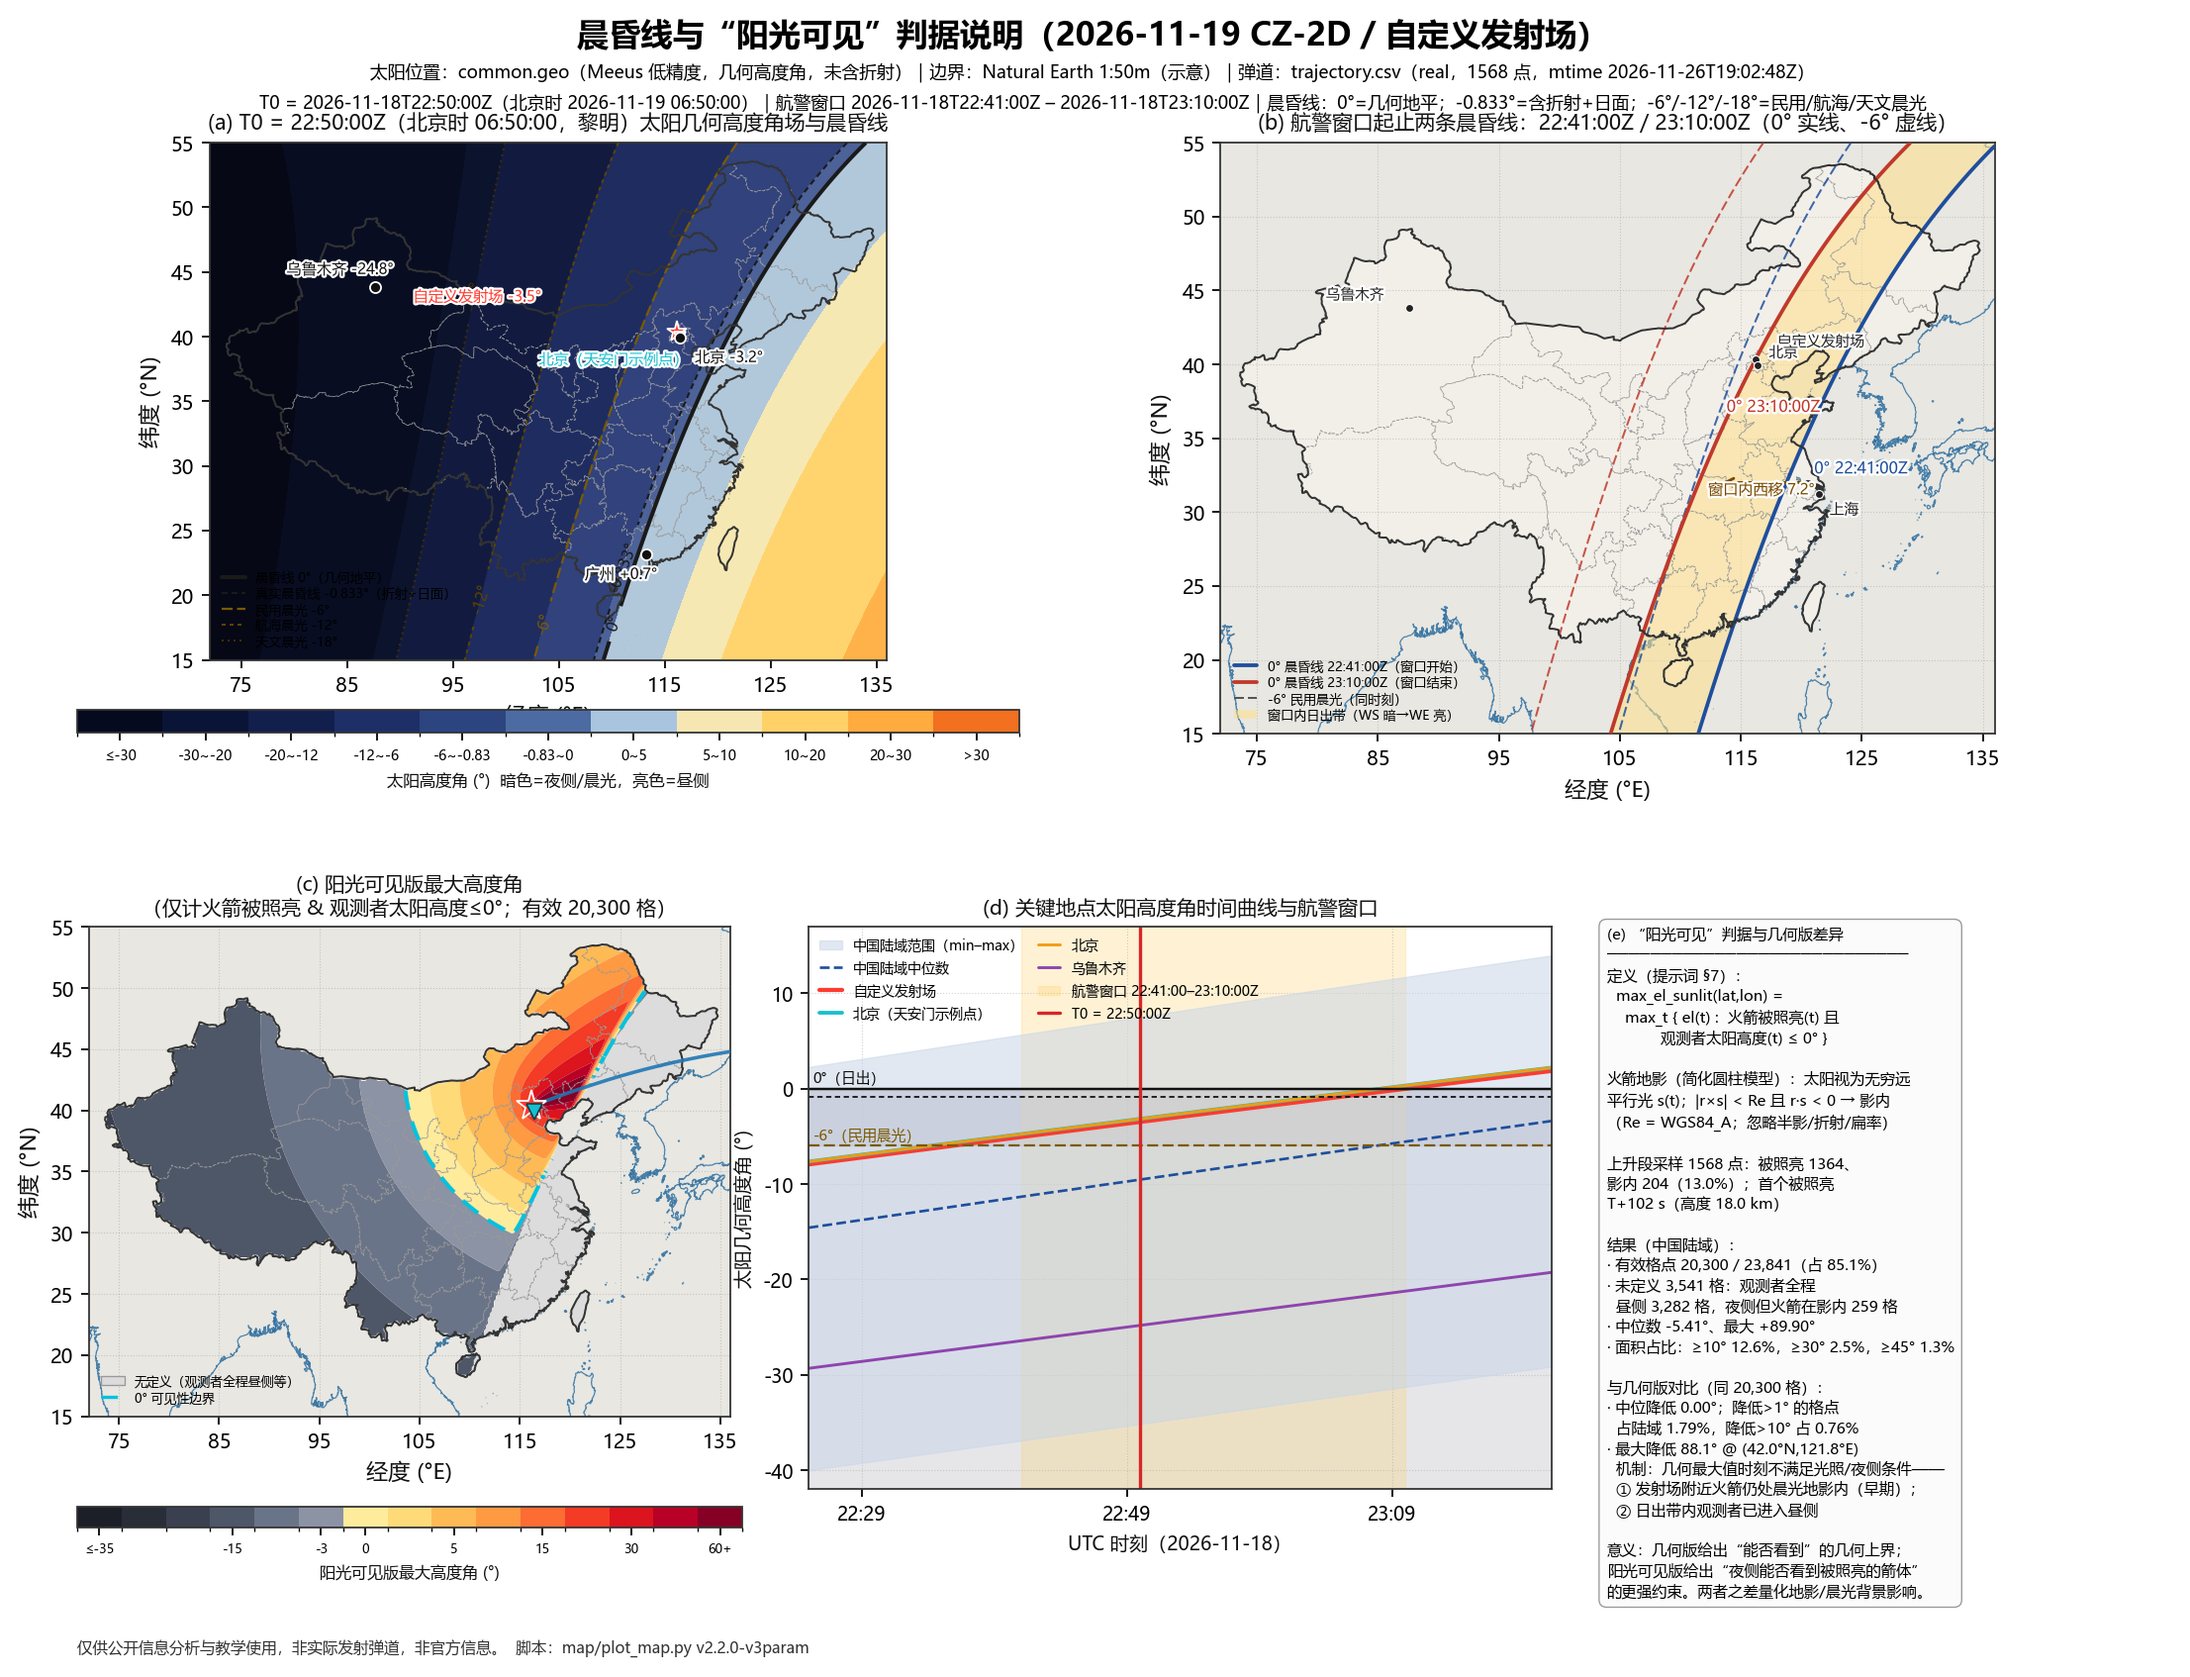
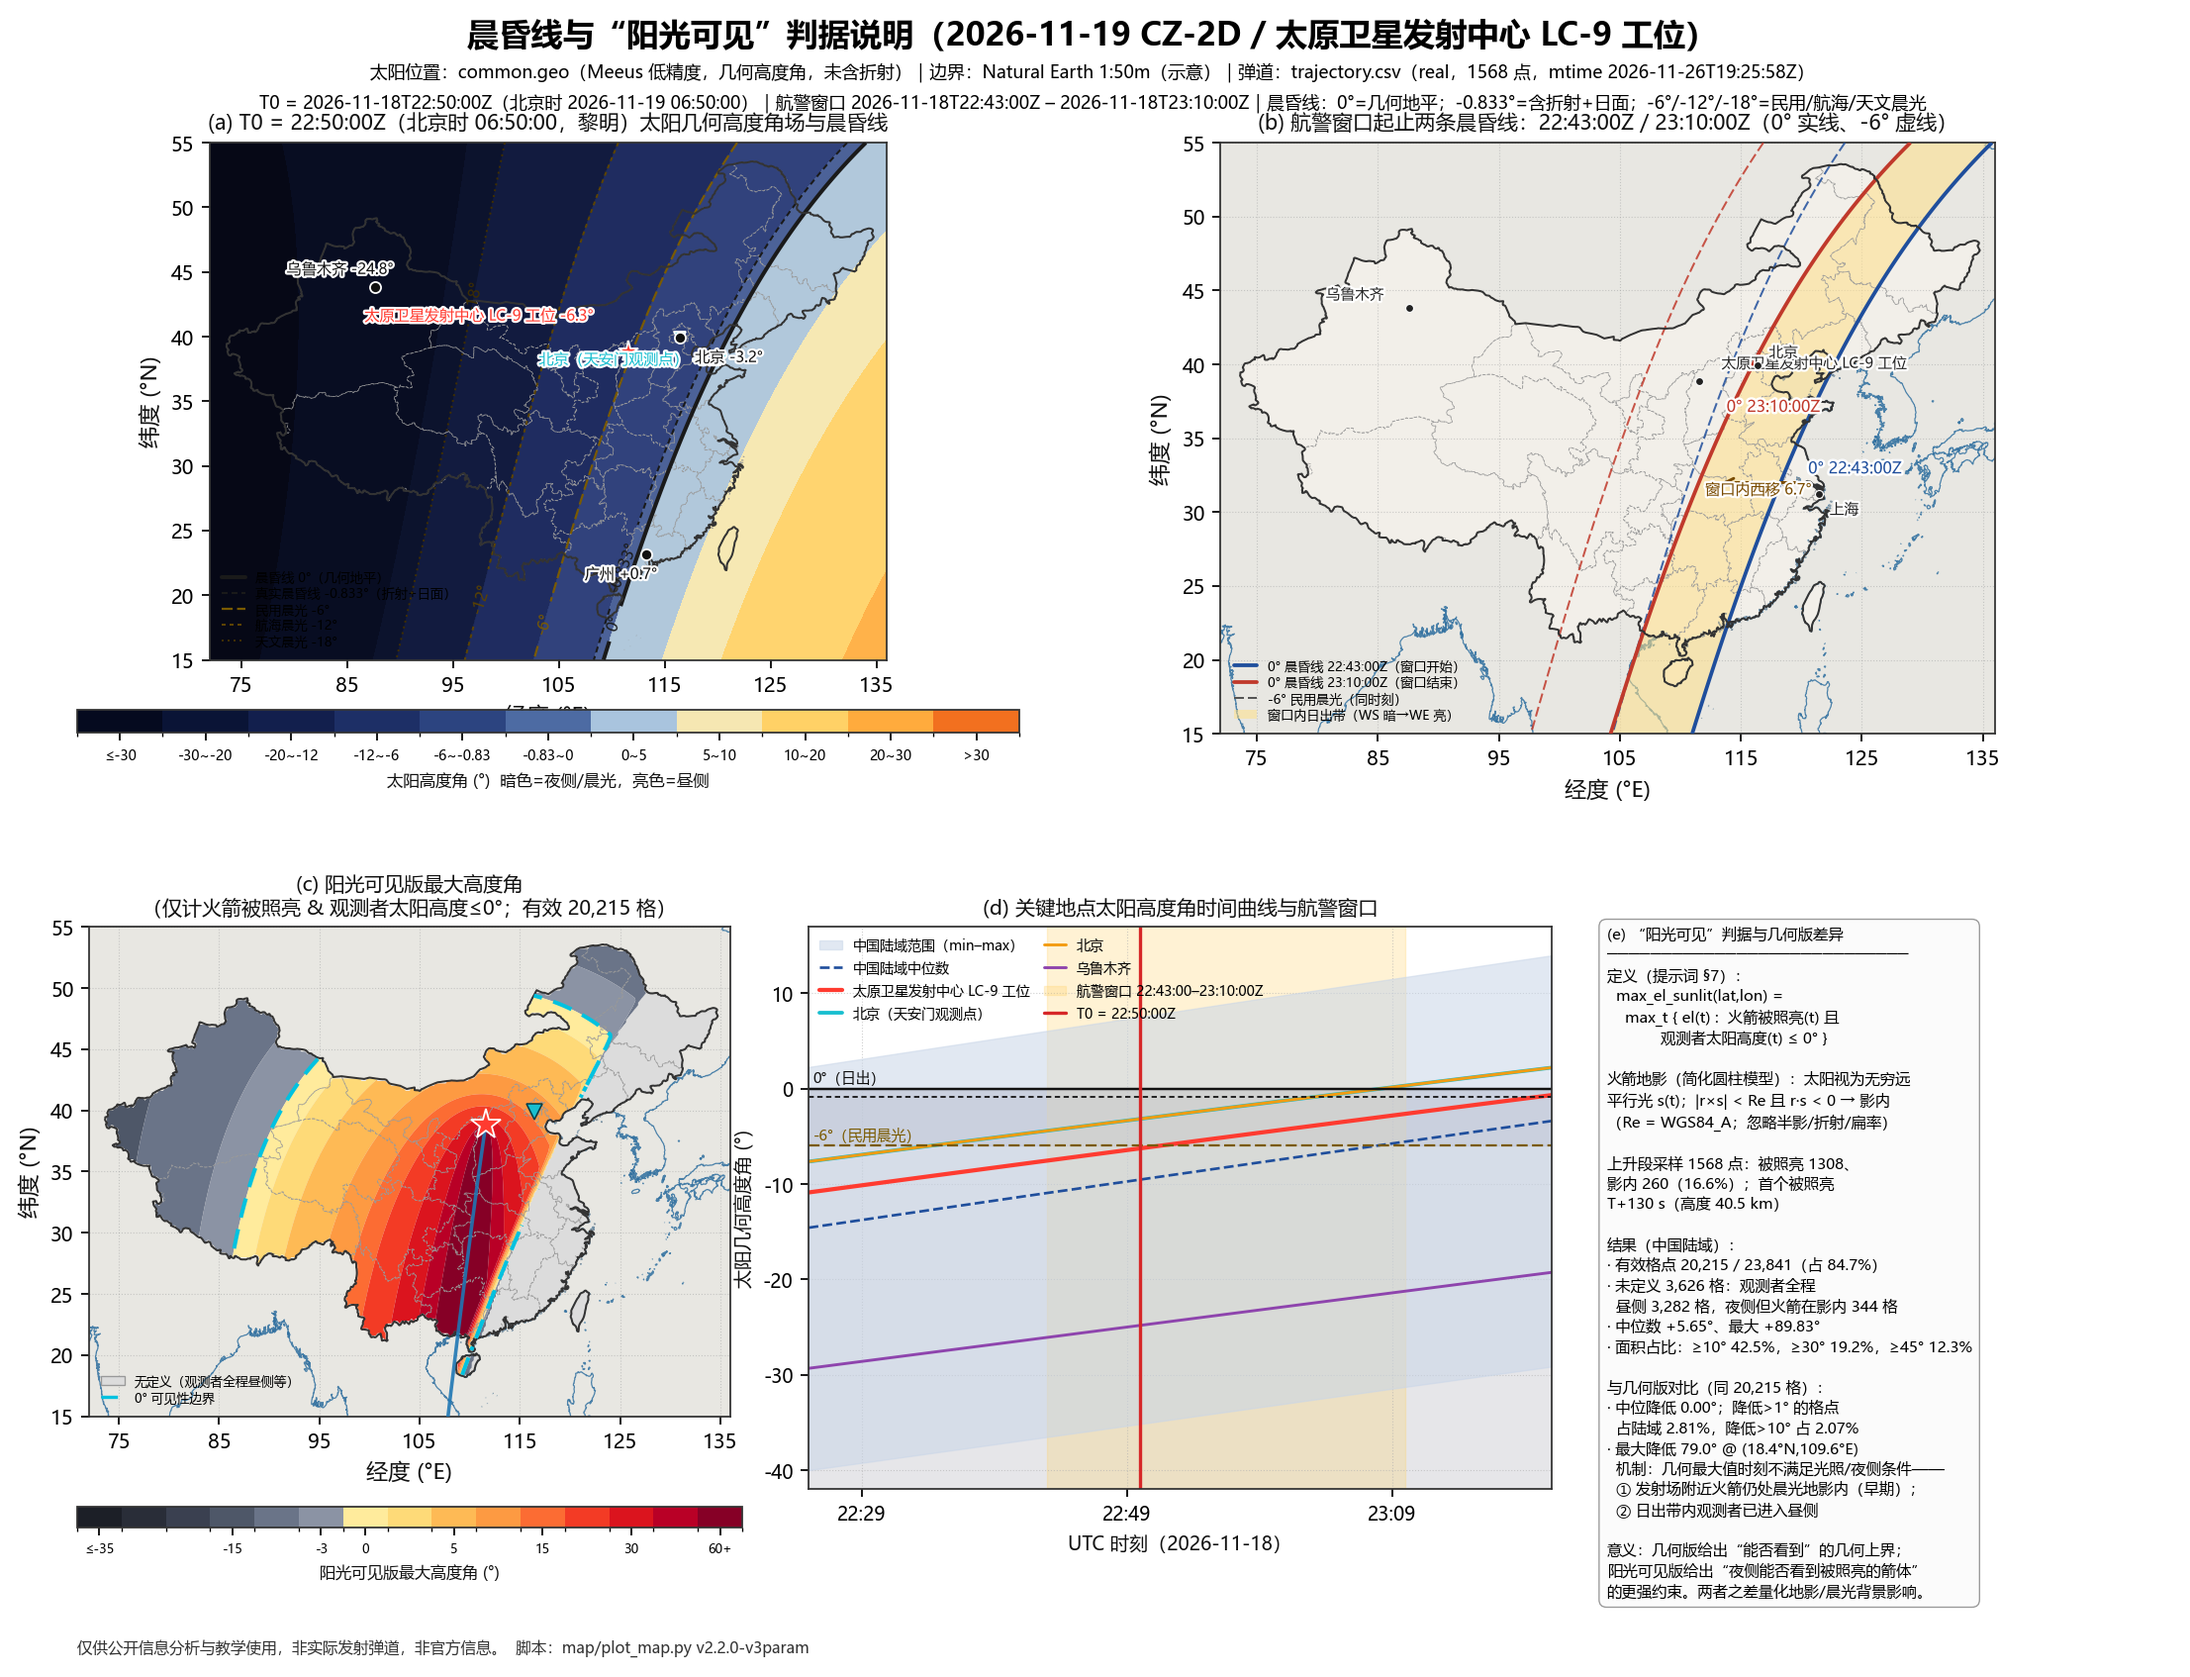
示例改为真实工位：太原 LC-9 发射 + 北京观测；更新展示图与说明

diff --git a/tests/tools/make_beijing_demo.py b/tests/tools/make_beijing_demo.py
@@ -1,17 +1,15 @@
 # -*- coding: utf-8 -*-
-"""生成 README/主页展示用的「北京示例」任务输入（虚构示例，非真实发射）。
+"""生成 README/主页展示用的「北京观测」示例任务输入。
 
-用途
+设定
 ----
-* README 与个人主页的展示图统一用北京作为示例地点：
-  发射场设在北京北部（自定义坐标），观测点设在北京天安门，航警区设在东北方向；
-* 载荷 1600 kg、目标轨道 480 km / 44°，使「长征二号丁」从北京向东发射时接近圆轨道
-  （单纯换经纬度会因地球自转加成让入轨偏心；这里是按标定结果调的展示参数）；
-* 该任务**不是真实发射任务**，只用于演示软件能力与出图效果。
+* **发射工位用真实的太原卫星发射中心 LC-9**（内置库，38.8632°N, 111.5896°E）；
+* **观测点改成北京天安门**（39.9042°N, 116.4074°E，海拔 44 m）——展示“异地观测”；
+* 航警用内置示例的两条禁区（真实任务格式）；这是一次**示例任务**，不是真实发射。
 
 用法::
 
-    python tests/tools/make_beijing_demo.py            # 写入 examples/北京示例_任务输入.json
+    python tests/tools/make_beijing_demo.py     # 写入 examples/北京观测示例_任务输入.json
 """
 from __future__ import annotations
 
@@ -21,48 +19,43 @@ import sys
 
 HERE = os.path.dirname(os.path.abspath(__file__))
 ROOT = os.path.dirname(os.path.dirname(HERE))
-OUT = os.path.join(ROOT, "examples", "北京示例_任务输入.json")
+OUT = os.path.join(ROOT, "examples", "北京观测示例_任务输入.json")
 
-#: 示意发射场：北京北部（40.35°N, 116.20°E，海拔 60 m）
-SITE_LAT, SITE_LON, SITE_ALT = 40.3500, 116.2000, 60.0
-#: 示例观测点：北京天安门（39.9042°N, 116.4074°E，海拔 44 m）
+#: 观测点：北京天安门（示例观测地点）
 OBS_LAT, OBS_LON, OBS_ALT = 39.9042, 116.4074, 44.0
 
-#: 两条航警区（一级残骸 / 整流罩），位置取自本任务标定后的自然落点附近
+#: 内置示例的两条航警区（与 app/main.py 的 DEMO_CZ2D 一致）
 NOTAMS = (
-    "A1101/26 NOTAMN\n"
-    "Q)ZBPE/QRDCA/IV/BO/W/000/999/4150N12200E040\n"
-    "A)ZBPE B)2611182243 C)2611182305\n"
-    "E) DANGER AREA ESTABLISHED BOUNDED BY: N421000E1215000-N420500E1223000-"
-    "N414500E1220000-N415500E1212000. VERTICAL LIMITS:SFC-UNL.\n\n"
-    "A1102/26 NOTAMN\n"
-    "Q)ZBPE/QRDCA/IV/BO/W/000/999/4235N12540E045\n"
-    "A)ZBPE B)2611182241 C)2611182310\n"
-    "E) DANGER AREA ESTABLISHED BOUNDED BY: N425500E1254000-N424500E1262000-"
-    "N422000E1254000-N423500E1245000. VERTICAL LIMITS:SFC-UNL.\n"
+    "A5897/26 NOTAMN\n"
+    "Q)ZXXX/QRDCA/IV/BO/W/000/999/3322N11036E013\n"
+    "A)ZXXX B)2611182243 C)2611182305\n"
+    "E) DANGER AREA ESTABLISHED BOUNDED BY: N333400E1103100-N333200E1104400-"
+    "N331000E1104100-N331100E1102700. VERTICAL LIMITS:SFC-UNL.\n\n"
+    "A5898/26 NOTAMN\n"
+    "Q)ZHWH/QRDCA/IV/BO/W/000/999/3015N11004E022\n"
+    "A)ZHWH B)2611182244 C)2611182310\n"
+    "E) DANGER AREA ESTABLISHED BOUNDED BY: N303500E1095700-N303300E1101900-"
+    "N295400E1101300-N295700E1095000. VERTICAL LIMITS:SFC-UNL.\n"
 )
 
 MISSION = {
-    "name": "示例：北京 · 长征二号丁（虚构示意弹道）",
+    "name": "示例：太原 LC-9 发射 · 北京观测（示意）",
     "mission_type": "auto",
     "rocket_label": "长征二号丁",
     "rocket_id": "auto",
-    "site_id": "custom",
-    "site_label": "北京（示意发射场）",
-    "site_lat": SITE_LAT,
-    "site_lon": SITE_LON,
-    "site_alt": SITE_ALT,
+    "site_id": "auto",
+    "site_label": "太原 LC-9",
     "t0_text": "2026-11-19 06:50",
     "tz_hint": "auto",
-    "serial": "示例",
+    "serial": "遥106",
     "payload_name": "示例载荷",
-    "payload_kg": 1600.0,
-    "orbit_alt_km": 480.0,
-    "orbit_i_deg": 44.0,
+    "payload_kg": 1000.0,
+    "orbit_alt_km": 505.0,
+    "orbit_i_deg": 97.45,
     "notams_text": NOTAMS,
     "observers": [
-        {"id": "beijing", "name": "北京（天安门示例点）", "lat_deg": OBS_LAT,
-         "lon_deg": OBS_LON, "alt_m": OBS_ALT, "note": "示例观测点"},
+        {"id": "beijing", "name": "北京（天安门观测点）", "lat_deg": OBS_LAT,
+         "lon_deg": OBS_LON, "alt_m": OBS_ALT, "note": "示例观测地点"},
     ],
     "mode": "accurate",
     "mc_n": 0,
@@ -80,7 +73,7 @@ def main() -> int:
     with open(OUT, "w", encoding="utf-8") as fh:
         json.dump(MISSION, fh, ensure_ascii=False, indent=2)
     print("written:", OUT)
-    print("hint: python -m app.main --cli --mission \"%s\" --workdir \"作品\\示例_北京_2026-11-19\""
+    print("hint: python -m app.main --cli --mission \"%s\" --workdir \"作品\\示例_太原发射_北京观测\""
           % os.path.relpath(OUT, ROOT))
     return 0
 

diff --git a/tests/_gui_shots/capture_beijing.py b/tests/_gui_shots/capture_beijing.py
@@ -2,7 +2,7 @@
 """README / 主页展示图：用「北京示例」任务截取 v4 GUI 的 8 个步骤页。
 
 与 ``capture_v4.py`` 的区别：不载入内置示例（太原），而是读
-``examples/北京示例_任务输入.json``，让界面里的地点全部是北京：
+``examples/北京观测示例_任务输入.json``，让界面里的地点全部是北京：
 任务名带“北京”、发射场为北京北部坐标、观测点为北京天安门。
 
 用法（在项目根目录）::
@@ -33,7 +33,7 @@ from app.core.model import MissionInput  # noqa: E402
 from app.gui.main_window import STEPS, MainWindow, enable_dpi_awareness  # noqa: E402
 
 OUT = os.path.join(ROOT, "docs", "showcase")
-MISSION = os.path.join(ROOT, "examples", "北京示例_任务输入.json")
+MISSION = os.path.join(ROOT, "examples", "北京观测示例_任务输入.json")
 PAGES = [s["key"] for s in STEPS]
 
 

diff --git a/README.md b/README.md
@@ -8,10 +8,11 @@
 
 `Python 3.10+` · `Windows 10/11 x64` · `离线可用` · `v4.3.0` · 仅供公开信息分析与教学使用
 
-![北京示例：全国最大高度角地图](docs/showcase/map_beijing.png)
+![北京观测示例：太原 LC-9 发射、北京观测的全国最大高度角地图](docs/showcase/map_beijing.png)
 
-> 本仓库的**展示图统一使用「北京」作为示例地点**：发射场设在北京北部（自定义坐标 40.35°N, 116.20°E），
-> 观测点设在北京天安门（39.9042°N, 116.4074°E）。这是一次**虚构的示意任务**，不是真实发射。
+> 本仓库的展示图统一使用「北京」作为**观测地点**：发射工位是真实的太原卫星发射中心 LC-9 工位
+> （38.8632°N, 111.5896°E），观测点设在北京天安门（39.9042°N, 116.4074°E）。
+> 任务参数沿用内置示例，仅用于演示软件能力，**不是真实发射**。
 
 ---
 
@@ -20,7 +21,7 @@
 - [1. 这是什么](#1-这是什么)
 - [2. 功能一览](#2-功能一览)
 - [3. 界面：八步向导](#3-界面八步向导)
-- [4. 北京示例（可复现）](#4-北京示例可复现)
+- [4. 北京观测示例（可复现）](#4-北京观测示例可复现)
 - [5. 快速开始](#5-快速开始)
 - [6. 输出成果](#6-输出成果)
 - [7. 数据与目录](#7-数据与目录)
@@ -78,17 +79,17 @@
 | ⑦ 数据体检 | 每个字段的取值/来源/置信度 | 用户给定优先于内置库/推断 |
 | ⑧ 运行与成果 | 进度、步骤台账、结果摘要、日志、成果文件树 | 双击文件即打开 |
 
-![任务与箭型（北京示例）](docs/showcase/01_mission.png)
+![任务与箭型（太原 LC-9）](docs/showcase/01_mission.png)
 ![观测点：北京天安门（示例）](docs/showcase/04_observer.png)
-![数据体检（北京示例）](docs/showcase/07_health_result.png)
+![数据体检（太原 LC-9 发射、北京观测）](docs/showcase/07_health_result.png)
 
-## 4. 北京示例（可复现）
+## 4. 北京观测示例（可复现）
 
-任务文件：[`examples/北京示例_任务输入.json`](examples/北京示例_任务输入.json)
-（发射场：北京北部自定义坐标；观测点：北京天安门；航警区：东北方向两条示意禁区）
+任务文件：[`examples/北京观测示例_任务输入.json`](examples/北京观测示例_任务输入.json)
+（发射工位：真实的太原卫星发射中心 LC-9；观测点：北京天安门；航警：内置示例的两条禁区）
 
 ```bash
-python -m app.main --cli --mission "examples/北京示例_任务输入.json" --workdir "作品\示例_北京_2026-11-19"
+python -m app.main --cli --mission "examples/北京观测示例_任务输入.json" --workdir "作品\示例_太原发射_北京观测"
 ```
 
 本机实测结果（2026-11-27，全模块，含参数反演）：
@@ -96,17 +97,19 @@ python -m app.main --cli --mission "examples/北京示例_任务输入.json" --w
 | 项目 | 结果 |
 |---|---|
 | 交付自检 | **QC 35/35 PASS**，退出码 0 |
-| 入轨 | 近地点 282 km / 远地点 937 km / 倾角 45.64° / e=0.0469 |
-| 残骸落点 | 3/3 在对应航警区内（一级 42.005,122.199；整流罩 42.809,125.724） |
-| 发射窗口（航警） | 2026-11-18 22:36:12 ~ 22:55:34 UTC（19.4 min） |
-| 天空可见（北京观测点） | 首次出现 06:50:22 北京时间，方位 340.5°、仰角 0.46°；最大仰角 31.5° |
+| 入轨 | 近地点 370 km / 远地点 640 km / 倾角 94.19° / e=0.0196 |
+| 残骸落点 | 3/3 在对应航警区内（一级 33.422,110.600；整流罩 30.330,110.088） |
+| 发射窗口（航警） | 2026-11-18 22:35:16 ~ 22:54:36 UTC（19.3 min） |
+| 天空可见（北京观测点） | 首次出现 06:51:33 北京时间，方位 254.9°、仰角 0.44°；最高仰角 13.5° |
 | 成果文件 | 44 个（sim / sky / map / viz / report） |
 
-**天空可见性（北京天安门观测点）**
+**从北京看太原发射：天空轨迹（方位角-高度角）**
 
-![出现方位地形判读图（北京）](docs/showcase/appear_beijing.png)
-![太阳高度与地影（北京）](docs/showcase/sun_earthshadow_beijing.png)
-![晨昏线与阳光可见性（北京）](docs/showcase/terminator_beijing.png)
+![北京观测点天空轨迹](docs/showcase/sky_beijing.png)
+
+![出现方位地形判读图（北京观测点）](docs/showcase/appear_beijing.png)
+![太阳高度与地影（北京观测点）](docs/showcase/sun_earthshadow_beijing.png)
+![晨昏线与阳光可见性（北京观测点）](docs/showcase/terminator_beijing.png)
 
 ## 5. 快速开始
 
@@ -185,7 +188,7 @@ python tests\test_db_validate.py        # 内置库校验
 python tests\run_regression.py          # 历史任务回归（引擎逐位一致）
 ```
 
-本机实测：北京示例 **QC 35/35**；载人 CZ-2F 交会任务 **QC 37/37**；常规 CZ-2D 示例 **QC 35/35**；
+本机实测：北京观测示例 **QC 35/35**；载人 CZ-2F 交会任务 **QC 37/37**；常规 CZ-2D 示例 **QC 35/35**；
 GUI 冒烟、冻结 exe 冒烟均通过。
 
 ## 9. 打包免安装版
